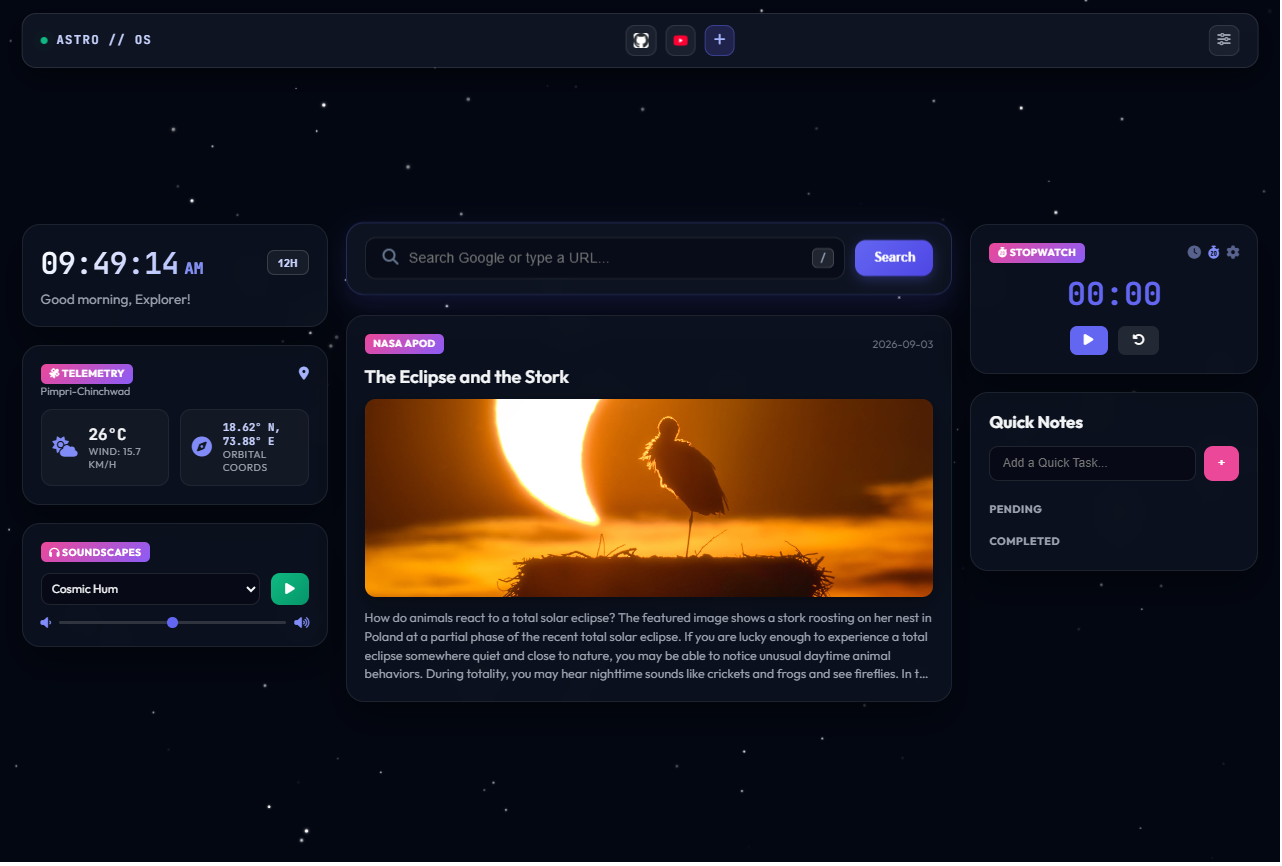
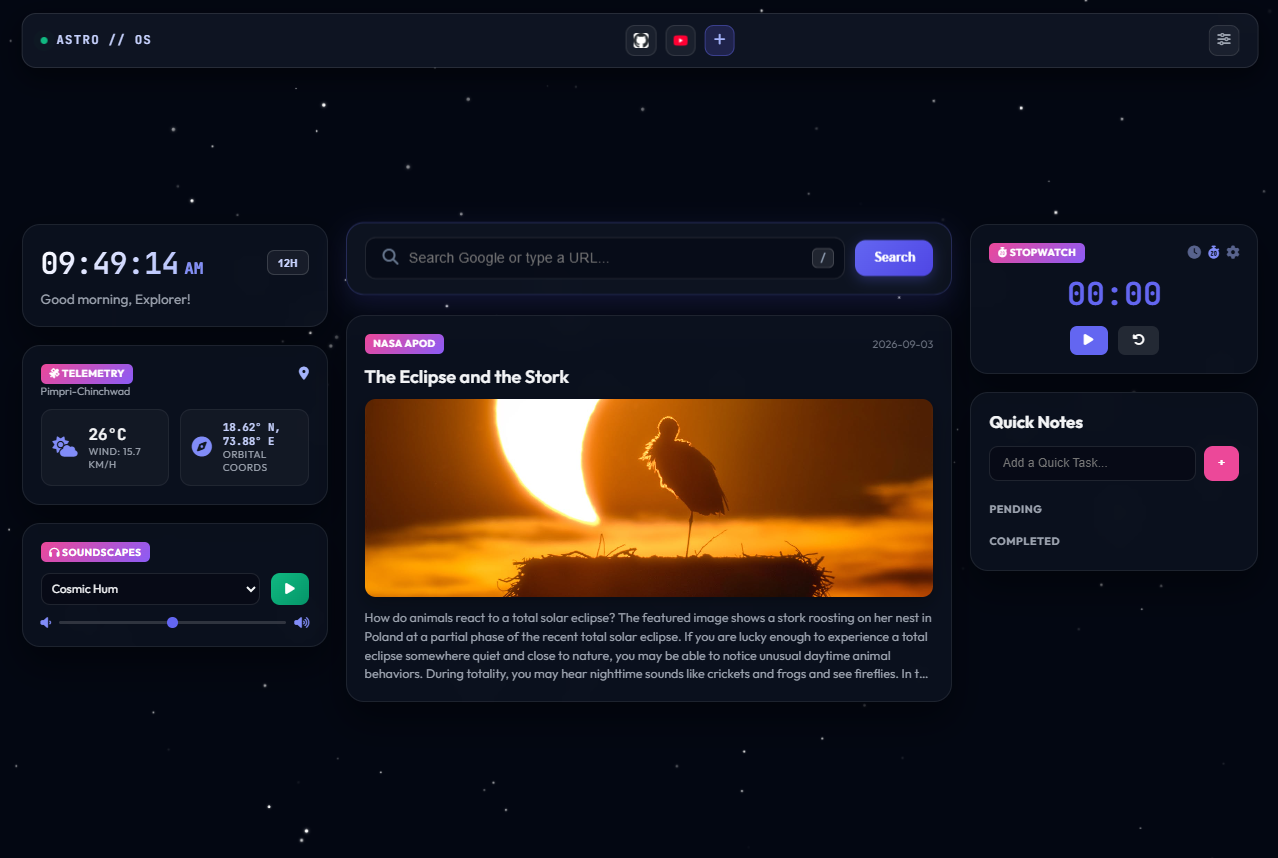
README.md Update

diff --git a/README.md b/README.md
@@ -20,10 +20,11 @@ Most of the project was built from scratch while experimenting with UI design, A
 
 * **Digital Clock & Greeting Engine**
 
-  * Real-time clock with dynamic AM/PM tracking.
-  * 12-Hour and 24-Hour format toggling.
+  * Real-time clock with dynamic AM/PM tracking.     ![AstroTab Screenshot](./assets/Time.png)
+  * 12-Hour and 24-Hour format toggling.                
   * Time-based greetings that change between Morning, Afternoon, and Evening.
 
+  
 * **NASA APOD (Astronomy Picture of the Day)**
 
   * Daily astronomy images and video content fetched from NASA's APOD API.
